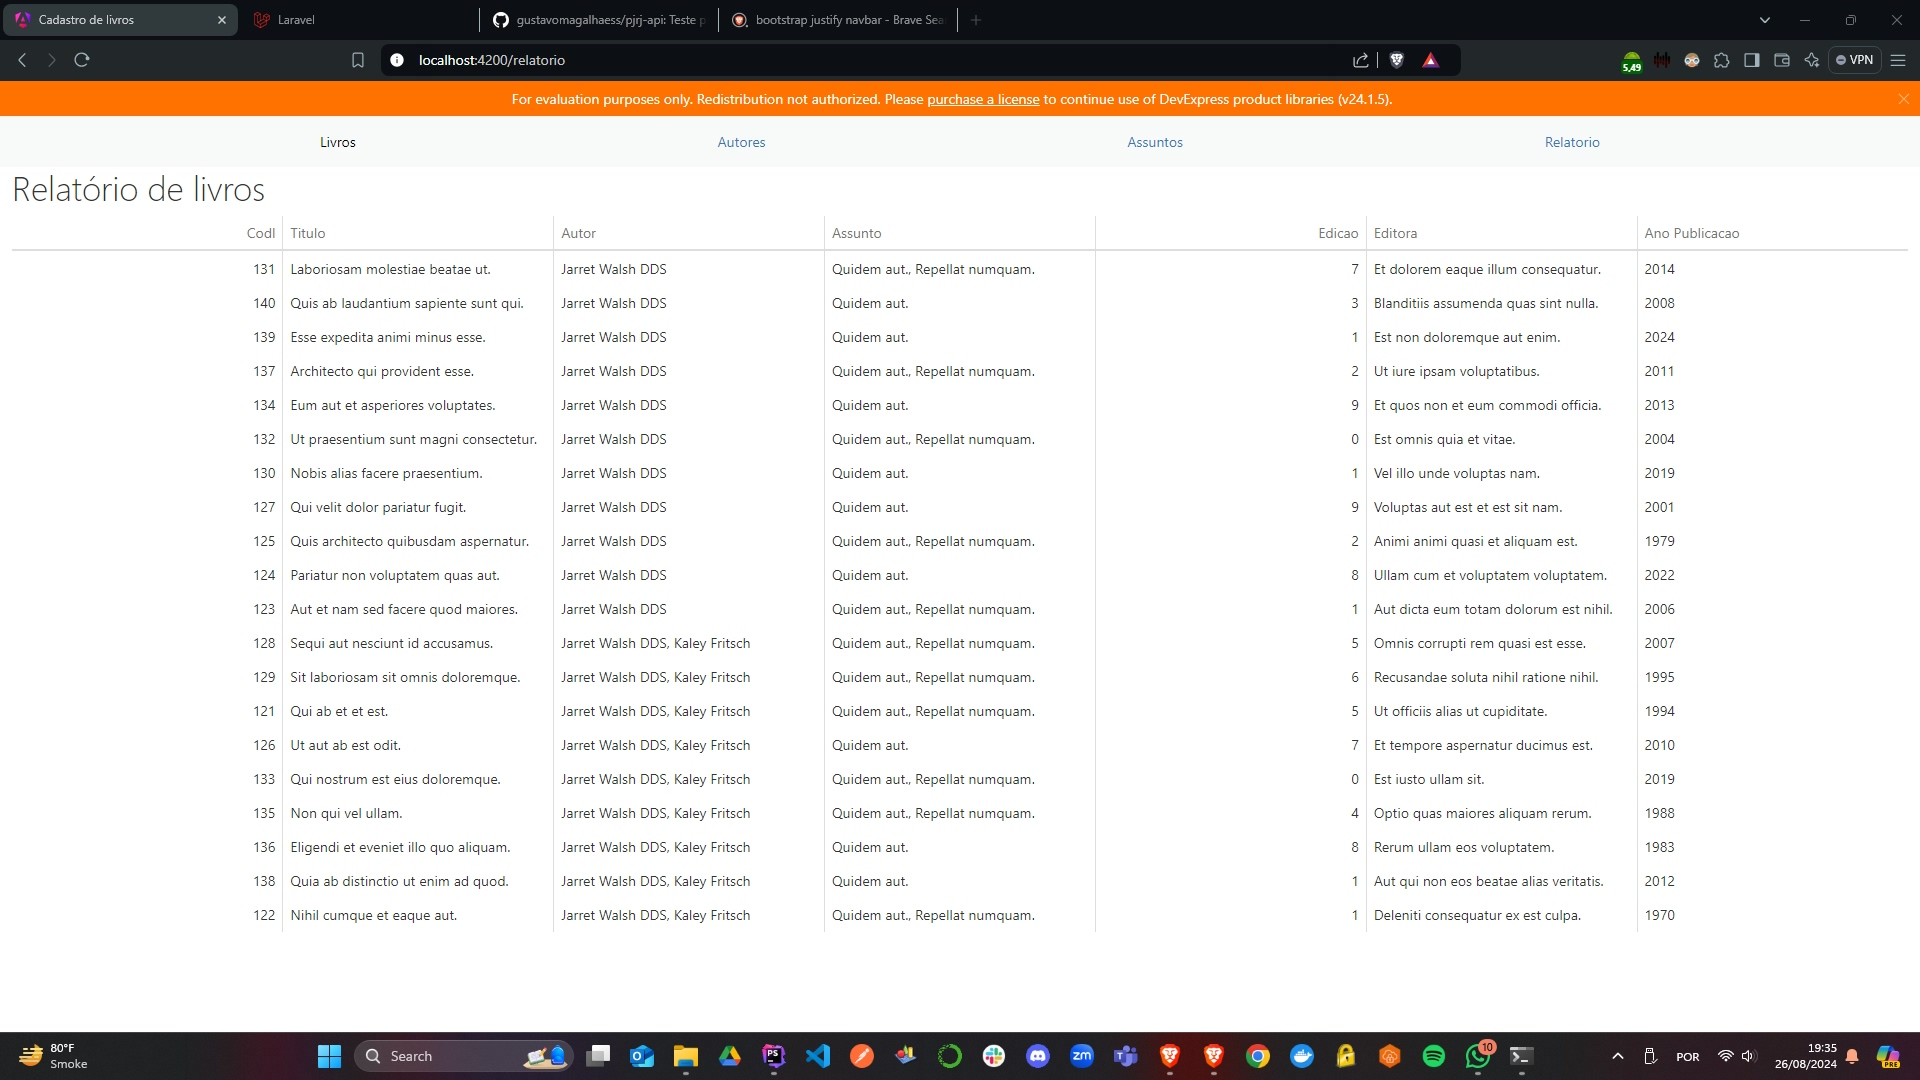
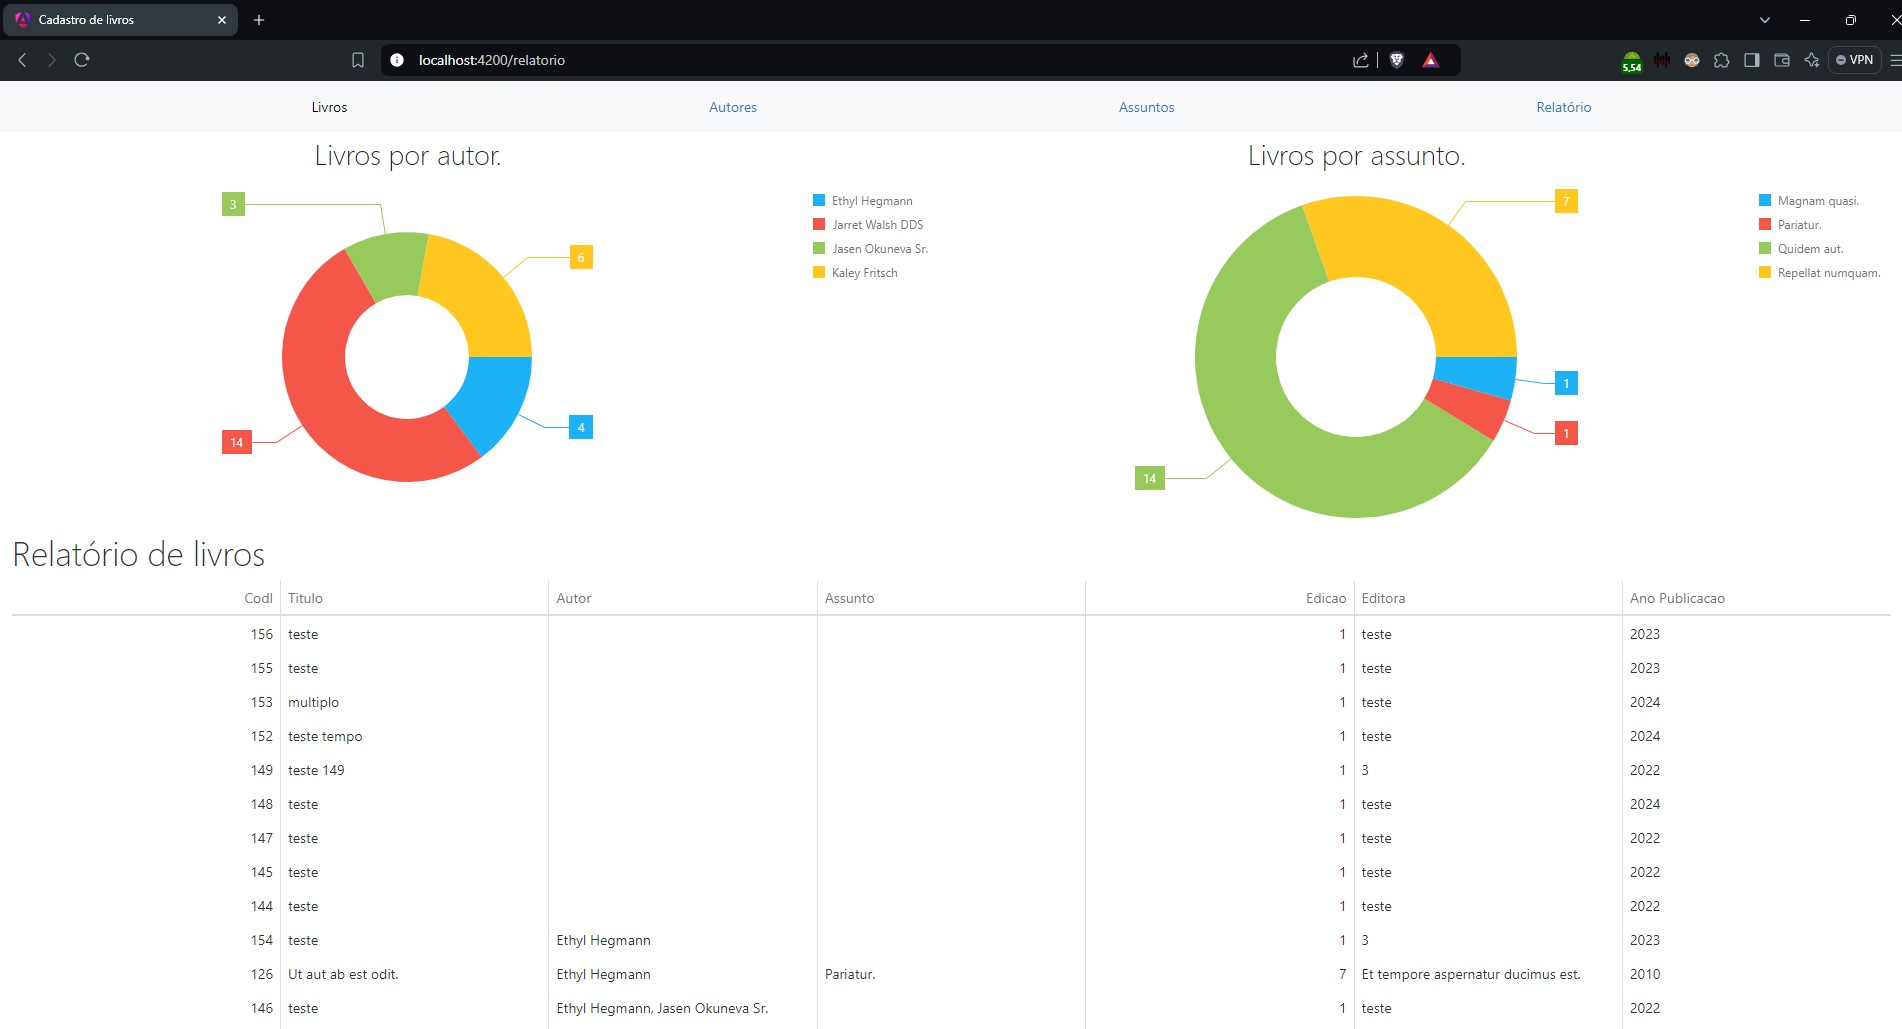
Inclui novos relatórios

diff --git a/app/Http/Controllers/RelatorioController.php b/app/Http/Controllers/RelatorioController.php
@@ -12,13 +12,37 @@ class RelatorioController
     public function __construct(private readonly RelatorioService $service){}
 
     /**
-     * Download do relatório
+     * Listagem geral de livros com autores e assuntos.
      *
      * @return JsonResponse
      */
     public function listar(): JsonResponse
     {
         $livros = $this->service->listar();
+
+        return response()->json($livros);
+    }
+
+    /**
+     * Listagem de quantidade de livros por autor.
+     *
+     * @return JsonResponse
+     */
+    public function autores(): JsonResponse
+    {
+        $livros = $this->service->autores();
+
+        return response()->json($livros);
+    }
+
+    /**
+     * Listagem de quantidade de livros por assunto.
+     *
+     * @return JsonResponse
+     */
+    public function assuntos(): JsonResponse
+    {
+        $livros = $this->service->assuntos();
 
         return response()->json($livros);
     }

diff --git a/database/migrations/2024_08_28_173354_create_relatorio_assunto_view.php b/database/migrations/2024_08_28_173354_create_relatorio_assunto_view.php
@@ -1,0 +1,31 @@
+<?php
+
+use Illuminate\Database\Migrations\Migration;
+use Illuminate\Support\Facades\DB;
+
+return new class extends Migration
+{
+    /**
+     * Run the migrations.
+     */
+    public function up(): void
+    {
+        DB::statement("CREATE VIEW Relatorio_Assunto AS (
+                    SELECT ass.Descricao,
+                           COUNT(li.Codl) AS Qde
+                      FROM Assunto ass
+                INNER JOIN Livro_Assunto las ON ass.CodAs = las.Assunto_CodAs
+                INNER JOIN Livro li ON las.Livro_Codl = li.Codl
+                  GROUP BY ass.Descricao
+                  ORDER BY ass.Descricao
+        )");
+    }
+
+    /**
+     * Reverse the migrations.
+     */
+    public function down(): void
+    {
+        DB::statement("DROP VIEW IF EXISTS Relatorio_Assunto");
+    }
+};

diff --git a/app/Services/RelatorioService.php b/app/Services/RelatorioService.php
@@ -12,12 +12,32 @@ class RelatorioService
     public function __construct(readonly private RelatorioRepository $repository) {}
 
     /**
-     * Relatóio de livros
+     * Listagem geral de livros com autores e assuntos.
      *
      * @return Collection
      */
     public function listar(): Collection
     {
         return $this->repository->listar();
+    }
+
+    /**
+     * Listagem de quantidade de livros por autor.
+     *
+     * @return Collection
+     */
+    public function autores(): Collection
+    {
+        return $this->repository->autores();
+    }
+
+    /**
+     * Listagem de quantidade de livros por assunto.
+     *
+     * @return Collection
+     */
+    public function assuntos(): Collection
+    {
+        return $this->repository->assuntos();
     }
 }

diff --git a/database/migrations/2024_08_28_173203_create_relatorio_autor_view.php b/database/migrations/2024_08_28_173203_create_relatorio_autor_view.php
@@ -1,0 +1,31 @@
+<?php
+
+use Illuminate\Database\Migrations\Migration;
+use Illuminate\Support\Facades\DB;
+
+return new class extends Migration
+{
+    /**
+     * Run the migrations.
+     */
+    public function up(): void
+    {
+        DB::statement("CREATE VIEW Relatorio_Autor AS (
+                SELECT au.Nome,
+                       COUNT(li.Codl) AS Qde
+                  FROM Autor au
+            INNER JOIN Livro_Autor la ON au.CodAu = la.Autor_CodAu
+            INNER JOIN Livro li ON la.Livro_Codl = li.Codl
+              GROUP BY au.Nome
+              ORDER BY au.Nome
+        )");
+    }
+
+    /**
+     * Reverse the migrations.
+     */
+    public function down(): void
+    {
+        DB::statement("DROP VIEW IF EXISTS Relatorio_Autor");
+    }
+};

diff --git a/app/Repositories/RelatorioRepository.php b/app/Repositories/RelatorioRepository.php
@@ -10,12 +10,32 @@ use Illuminate\Support\Facades\DB;
 class RelatorioRepository
 {
     /**
-     * Relatório de livros.
+     * Listagem geral de livros com autores e assuntos.
      *
      * @return Collection
      */
     public function listar(): Collection
     {
         return DB::table('Relatorio')->get();
+    }
+
+    /**
+     * Listagem de quantidade de livros por autor.
+     *
+     * @return Collection
+     */
+    public function autores(): Collection
+    {
+        return DB::table('Relatorio_Autor')->get();
+    }
+
+    /**
+     * Listagem de quantidade de livros por assunto.
+     *
+     * @return Collection
+     */
+    public function assuntos(): Collection
+    {
+        return DB::table('Relatorio_Assunto')->get();
     }
 }

diff --git a/routes/api.php b/routes/api.php
@@ -32,3 +32,5 @@ Route::delete('/assuntos/{Cod}/excluir', ['App\Http\Controllers\AssuntoControlle
 
 // Rota de relatório
 Route::get('/relatorio', ['App\Http\Controllers\RelatorioController', 'listar']);
+Route::get('/relatorio/autores', ['App\Http\Controllers\RelatorioController', 'autores']);
+Route::get('/relatorio/assuntos', ['App\Http\Controllers\RelatorioController', 'assuntos']);

diff --git a/docs/database.md b/docs/database.md
@@ -50,7 +50,7 @@ alter table `Livro_Assunto` add constraint `Livro_Assunto_FKIntex2` foreign key 
 alter table `Livro_Assunto` add unique `Livro_Assunto_Unique_Index`(`Livro_Codl`, `Assunto_CodAs`);
 ```
 
-## Script de criação da view Relatorio
+## Script de criação das views
 ```sql
 CREATE VIEW Relatorio AS (
    SELECT li.Codl,
@@ -71,5 +71,25 @@ CREATE VIEW Relatorio AS (
            li.Editora,
            li.AnoPublicacao
   ORDER BY Autor
+);
+
+CREATE VIEW Relatorio_Autor AS (
+    SELECT au.Nome,
+           COUNT(li.Codl) AS Qde
+      FROM Autor au
+INNER JOIN Livro_Autor la ON au.CodAu = la.Autor_CodAu
+INNER JOIN Livro li ON la.Livro_Codl = li.Codl
+  GROUP BY au.Nome
+  ORDER BY au.Nome
+);
+
+CREATE VIEW Relatorio_Assunto AS (
+    SELECT ass.Descricao,
+           COUNT(li.Codl) AS Qde
+      FROM Assunto ass
+INNER JOIN Livro_Assunto las ON ass.CodAs = las.Assunto_CodAs
+INNER JOIN Livro li ON las.Livro_Codl = li.Codl
+  GROUP BY ass.Descricao
+  ORDER BY ass.Descricao
 );
 ```
